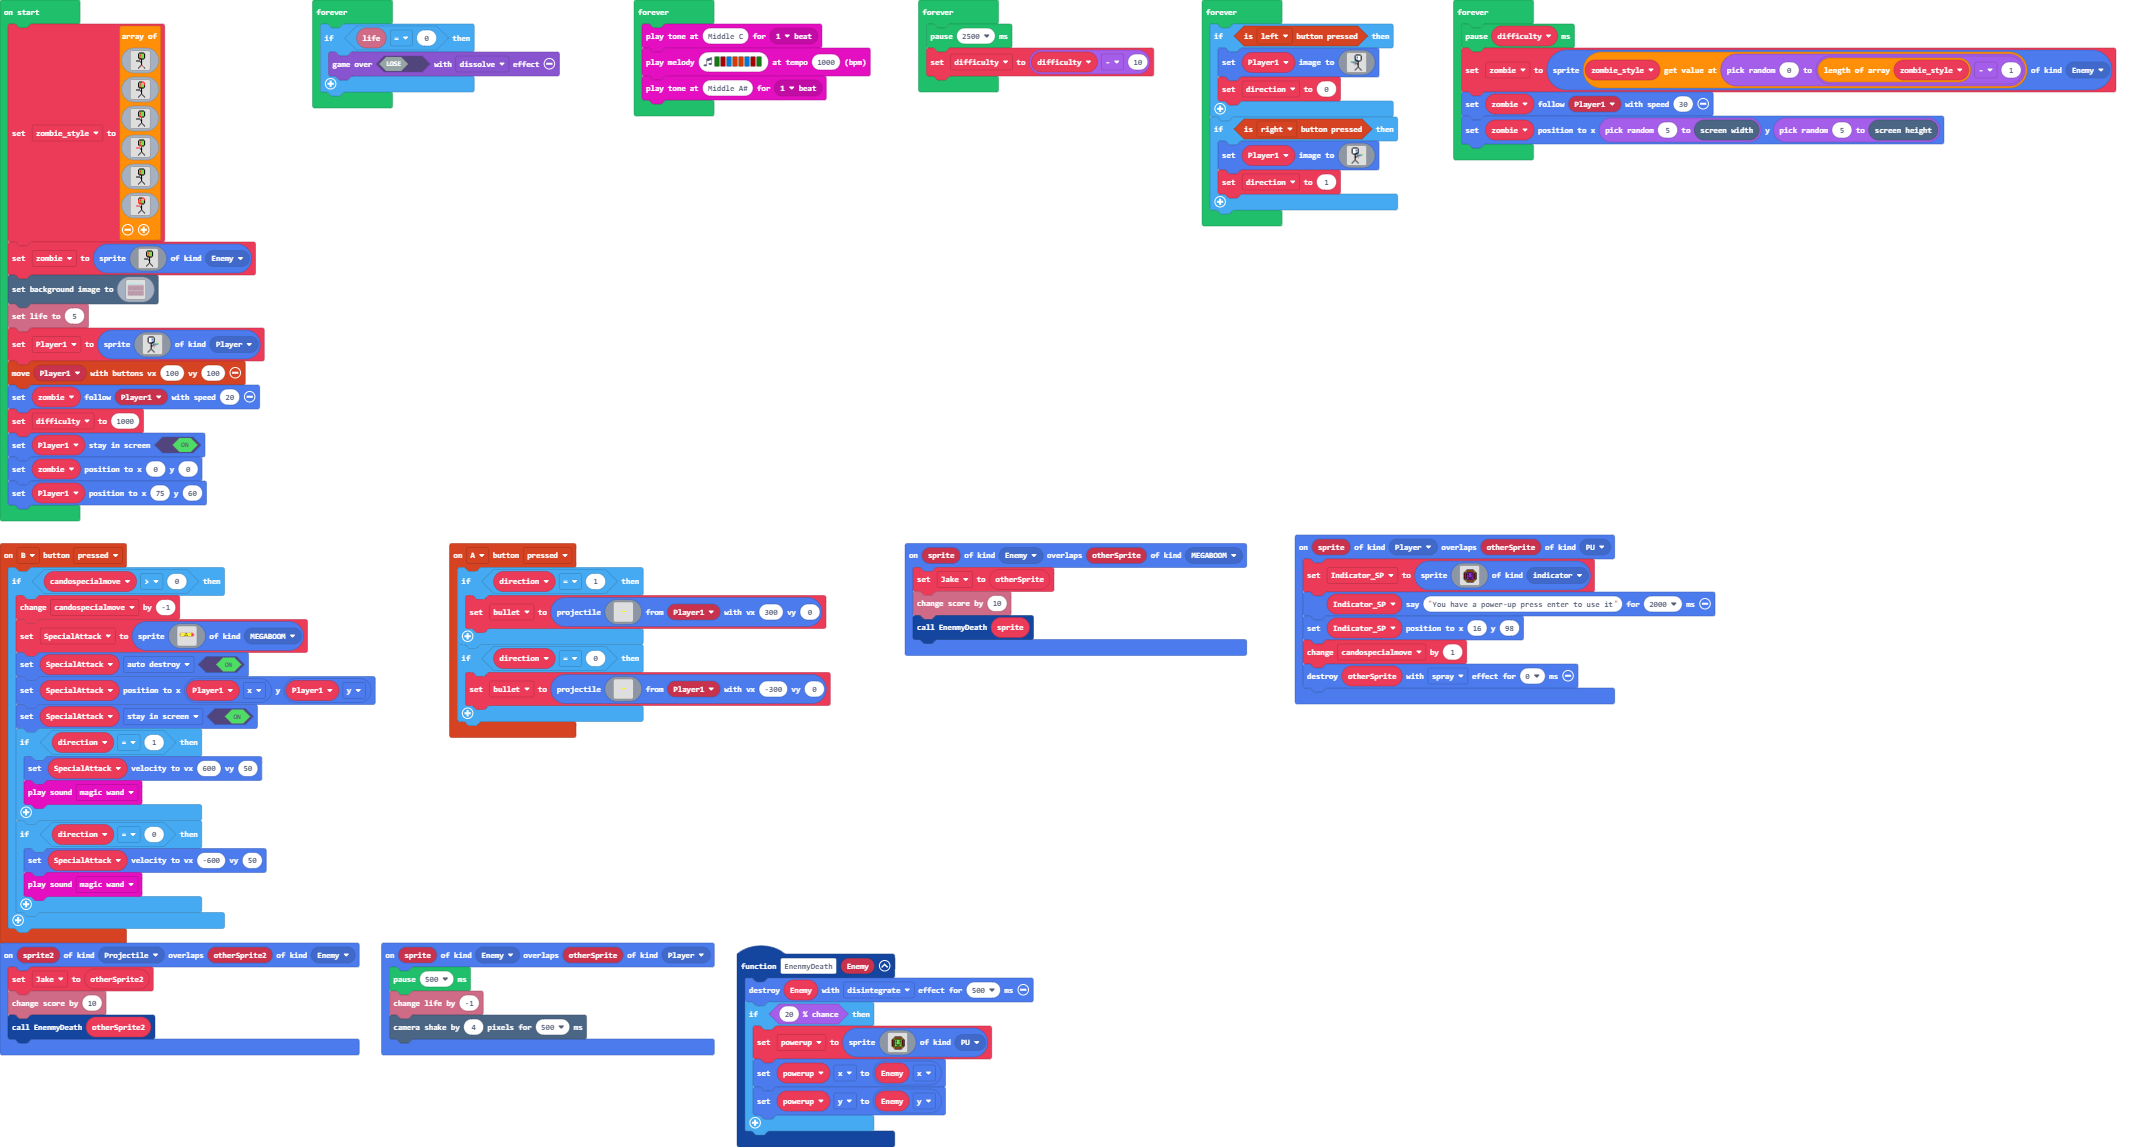
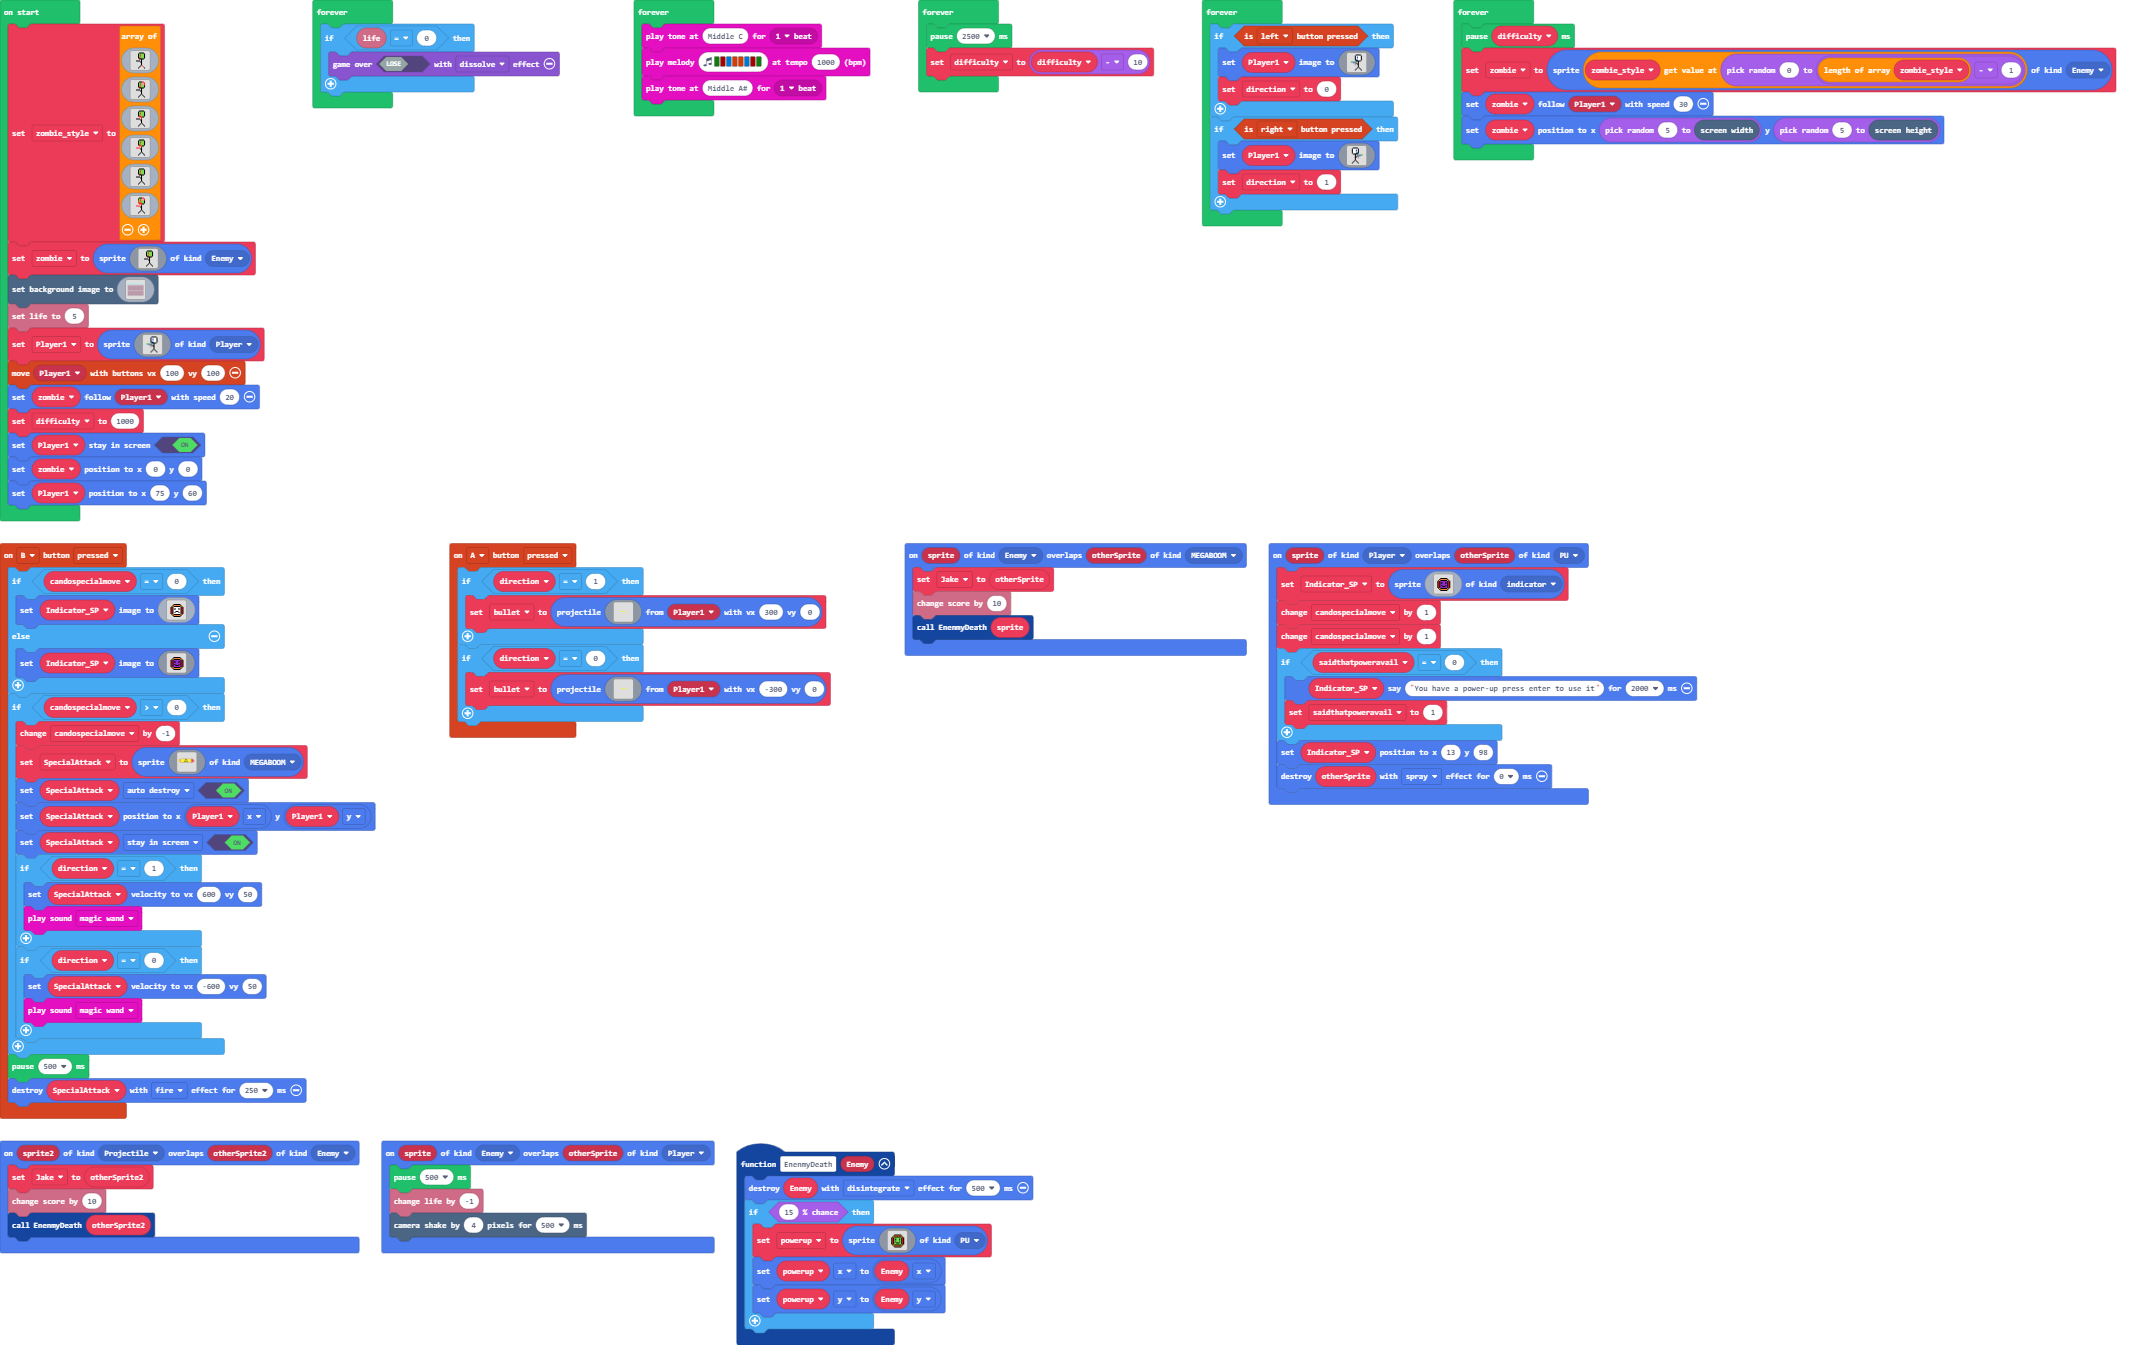
Update main.blocks, main.ts

Changed region(s): [[0.0, 0.0, 0.8011, 1.0], [0.2773, 0.0, 0.986, 0.2136], [0.1232, 0.0, 0.2773, 0.1221]]

diff --git a/main.ts b/main.ts
@@ -4,6 +4,45 @@ namespace SpriteKind {
     export const MEGABOOM = SpriteKind.create()
 }
 controller.B.onEvent(ControllerButtonEvent.Pressed, function () {
+    if (candospecialmove == 0) {
+        Indicator_SP.setImage(img`
+            . . . . . . . . . . . . . . . . 
+            . . . . . . . . . . . . . . . . 
+            . . . . . f f f f f f f . . . . 
+            . . . . f 4 4 4 4 4 4 4 f . . . 
+            . . . f 5 f f f f f f f 5 f . . 
+            . . f 2 f 1 1 1 1 1 1 1 f 2 f . 
+            . . f 2 f 1 f 1 1 1 f 1 f 2 f . 
+            . . f 2 f 1 f 1 1 1 f 1 f 2 f . 
+            . . f 2 f 1 1 1 1 1 1 1 f 2 f . 
+            . . f 2 f 1 1 f f f 1 1 f 2 f . 
+            . . f 2 f 1 f 1 1 1 f 1 f 2 f . 
+            . . f 2 f 1 1 1 1 1 1 1 f 2 f . 
+            . . . f 5 f f f f f f f 5 f . . 
+            . . . . f 4 4 4 4 4 4 4 f . . . 
+            . . . . . f f f f f f f . . . . 
+            . . . . . . . . . . . . . . . . 
+            `)
+    } else {
+        Indicator_SP.setImage(img`
+            . . . . . . . . . . . . . . . . 
+            . . . . . . . . . . . . . . . . 
+            . . . . . f f f f f f f . . . . 
+            . . . . f 4 4 4 4 4 4 4 f . . . 
+            . . . f 5 f f f f f f f 5 f . . 
+            . . f 2 f a a a a a a a f 2 f . 
+            . . f 2 f a f a a a f a f 2 f . 
+            . . f 2 f a f a a a f a f 2 f . 
+            . . f 2 f a a a a a a a f 2 f . 
+            . . f 2 f a f a a a f a f 2 f . 
+            . . f 2 f a a f f f a a f 2 f . 
+            . . f 2 f a a a a a a a f 2 f . 
+            . . . f 5 f f f f f f f 5 f . . 
+            . . . . f 4 4 4 4 4 4 4 f . . . 
+            . . . . . f f f f f f f . . . . 
+            . . . . . . . . . . . . . . . . 
+            `)
+    }
     if (candospecialmove > 0) {
         candospecialmove += -1
         SpecialAttack = sprites.create(img`
@@ -68,6 +107,8 @@ controller.B.onEvent(ControllerButtonEvent.Pressed, function () {
             music.magicWand.play()
         }
     }
+    pause(500)
+    SpecialAttack.destroy(effects.fire, 250)
 })
 controller.A.onEvent(ControllerButtonEvent.Pressed, function () {
     if (direction == 1) {
@@ -113,7 +154,7 @@ controller.A.onEvent(ControllerButtonEvent.Pressed, function () {
 })
 function EnenmyDeath (Enemy: Sprite) {
     Enemy.destroy(effects.disintegrate, 500)
-    if (Math.percentChance(20)) {
+    if (Math.percentChance(15)) {
         powerup = sprites.create(img`
             . . . . . . . . . . . . . . . . 
             . . . . . . . . . . . . . . . . 
@@ -165,9 +206,13 @@ sprites.onOverlap(SpriteKind.Player, SpriteKind.PU, function (sprite, otherSprit
         . . . . . f f f f f f f . . . . 
         . . . . . . . . . . . . . . . . 
         `, SpriteKind.indicator)
-    Indicator_SP.say("You have a power-up press enter to use it", 2000)
-    Indicator_SP.setPosition(16, 98)
     candospecialmove += 1
+    candospecialmove += 1
+    if (saidthatpoweravail == 0) {
+        Indicator_SP.say("You have a power-up press enter to use it", 2000)
+        saidthatpoweravail = 1
+    }
+    Indicator_SP.setPosition(13, 98)
     otherSprite.destroy(effects.spray, 0)
 })
 sprites.onOverlap(SpriteKind.Projectile, SpriteKind.Enemy, function (sprite2, otherSprite2) {
@@ -175,12 +220,13 @@ sprites.onOverlap(SpriteKind.Projectile, SpriteKind.Enemy, function (sprite2, ot
     info.changeScoreBy(10)
     EnenmyDeath(otherSprite2)
 })
-let Indicator_SP: Sprite = null
+let saidthatpoweravail = 0
 let Jake: Sprite = null
 let powerup: Sprite = null
 let bullet: Sprite = null
 let direction = 0
 let SpecialAttack: Sprite = null
+let Indicator_SP: Sprite = null
 let candospecialmove = 0
 let Player1: Sprite = null
 let zombie_style = [
@@ -435,22 +481,22 @@ scene.setBackgroundImage(img`
     `)
 info.setLife(5)
 Player1 = sprites.create(img`
-    . . . . f f f f f . . . . . . . 
-    . . . f 1 1 1 1 1 f . . . . . . 
-    . . . f 1 1 1 8 1 f . . . . . . 
-    . . . f 1 1 1 8 1 f . . . . . . 
-    . . . f 1 1 1 1 1 f . . . . . . 
-    . . . f 1 1 1 8 8 f . . . . . . 
-    . . . . f f f f f . . . . 5 . . 
-    . . . . . . f . . 6 6 6 6 6 . . 
-    . . . . . . f . f b b b . . . . 
-    . . . . . . f f . b . . . . . . 
-    . . . . . . f . . b . . . . . . 
-    . . . . . . f . . . . . . . . . 
-    . . . . . . f . . . . . . . . . 
-    . . . . . f . f . . . . . . . . 
-    . . . . f . . . f . . . . . . . 
-    . . . f . . . . . f . . . . . . 
+    . . . . . . . f f f f f . . . . 
+    . . . . . . f 1 1 1 1 1 f . . . 
+    . . . . . . f 1 8 1 1 1 f . . . 
+    . . . . . . f 1 8 1 1 1 f . . . 
+    . . . . . . f 1 1 1 1 1 f . . . 
+    . . . . . . f 8 8 1 1 1 f . . . 
+    . . 5 . . . . f f f f f . . . . 
+    . . 6 6 6 6 6 . . f . . . . . . 
+    . . . . b b b f . f . . . . . . 
+    . . . . . . b . f f . . . . . . 
+    . . . . . . b . . f . . . . . . 
+    . . . . . . . . . f . . . . . . 
+    . . . . . . . . . f . . . . . . 
+    . . . . . . . . f . f . . . . . 
+    . . . . . . . f . . . f . . . . 
+    . . . . . . f . . . . . f . . . 
     `, SpriteKind.Player)
 controller.moveSprite(Player1, 100, 100)
 zombie.follow(Player1, 20)
